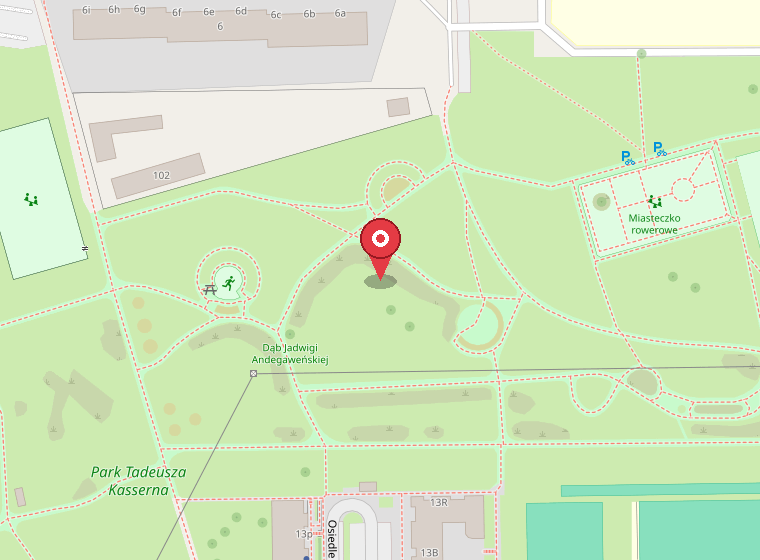
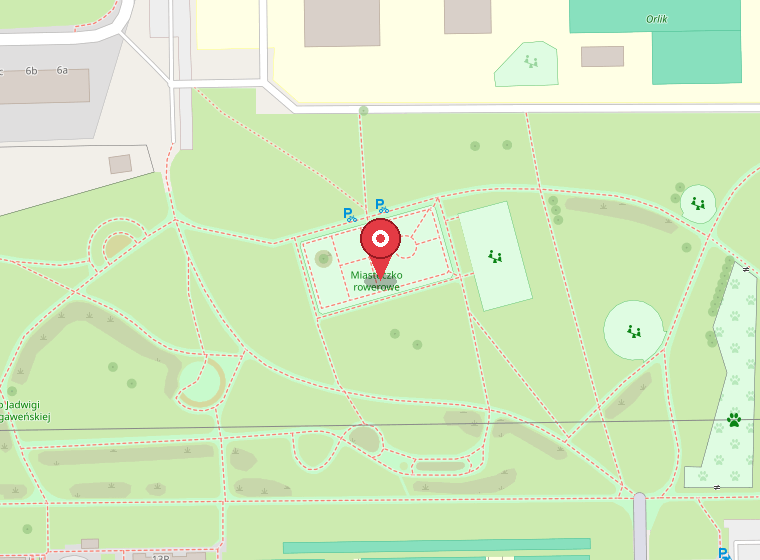
Gabi: poprawki po testach (plac rowerowy, finał, panel admina)
- plac rowerowy: poprawiona lokalizacja pinezki (nowe współrzędne
  52.4556782, 16.9139034 — „Miasteczko rowerowe") i zaktualizowany link
  do Google Maps
- ekran końcowy: bez zdradzania nagrody/miejsca — „Po rozszyfrowaniu
  zakodowanych wiadomości będziecie wiedziały, gdzie się dalej udać"
  (dziewczynki same rozszyfrują 3 wiadomości i hasło)
- panel organizatora: wejście po 10× tapnięciu w tytuł (było 5×), żeby
  nie otworzyć go przypadkiem

diff --git a/gabi/js/game.js b/gabi/js/game.js
@@ -181,7 +181,7 @@
     b.textContent = Audio8.isMuted() ? "♪ OFF" : "♪ ON";
   }
 
-  /* ---------- panel organizatora (5x tap w tytuł) ---------- */
+  /* ---------- panel organizatora (10x tap w tytuł) ---------- */
   var tapCount = 0,
     tapTimer = null;
   function onTitleTap() {
@@ -190,7 +190,7 @@
     tapTimer = setTimeout(function () {
       tapCount = 0;
     }, 1200);
-    if (tapCount >= 5) {
+    if (tapCount >= 10) {
       tapCount = 0;
       organizer();
     }
@@ -617,7 +617,7 @@
         h("h1", { class: "win-name", text: CFG.hero + "!" }),
         h("p", {
           class: "win-msg",
-          text: "NIESPODZIANKA! 🎉\nIdźcie teraz do FUSÓW\nna lody — są już opłacone!\nSto lat w dniu 13. urodzin!",
+          text: "NIESPODZIANKA! 🎉\nPo rozszyfrowaniu zakodowanych wiadomości\nbędziecie wiedziały, gdzie się dalej udać.\nSto lat w dniu 13. urodzin!",
         }),
         h(
           "div",

diff --git a/gabi/js/config.js b/gabi/js/config.js
@@ -138,7 +138,7 @@ window.GAME_CONFIG = {
       saveAnswerAs: "poem", // zapisz treść wierszyka, by pokazać ją na końcu gry
       inputPlaceholder: "wpiszcie tu swój wierszyk...",
       mapImage: "assets/maps/map-plac-rowerowy.png",
-      mapLink: "https://maps.app.goo.gl/VxBkwQgEBFMMtFAF6",
+      mapLink: "https://maps.app.goo.gl/nKsKzYoiyJXMy4g46",
       mapHint:
         "Teraz plan jest oczywisty:\nszukajcie koperty w okolicy Poradnika Młodego Rowerzysty!",
       scanPlace: "Plac rowerowy (os. B. Chrobrego) — przy Poradniku Młodego Rowerzysty",

diff --git a/gabi/css/style.css b/gabi/css/style.css
@@ -27,7 +27,7 @@
 }
 
 /* iOS ignoruje user-scalable=no — to wyłącza zoom z podwójnego tapnięcia
-   na klikalnych elementach (np. 5x tap w tytuł = panel organizatora),
+   na klikalnych elementach (np. 10x tap w tytuł = panel organizatora),
    zostawiając pinch-zoom. */
 button,
 .btn,

diff --git a/gabi/sw.js b/gabi/sw.js
@@ -10,7 +10,7 @@
  * inaczej telefon będzie serwował starą wersję z cache.
  */
 var CACHE_PREFIX = "gabi-";
-var CACHE = CACHE_PREFIX + "v12";
+var CACHE = CACHE_PREFIX + "v13";
 var ASSETS = [
   "./",
   "./index.html",
